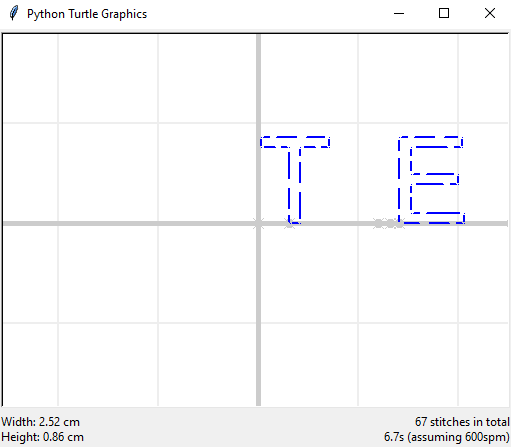
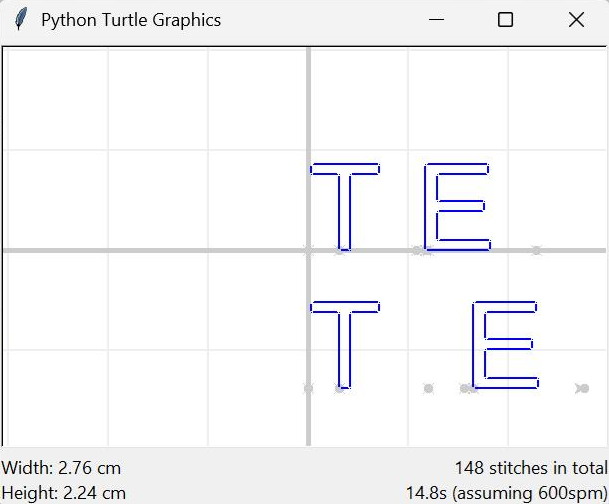
make draw_letter_gap less confusing

diff --git a/src/turtlethread/text.py b/src/turtlethread/text.py
@@ -53,6 +53,8 @@ class LetterDrawer():
                 self.load_font("Comic") # comic sans 
             except: 
                 pass 
+        
+        self.prev_fontsize = None 
 
 
     # context manager functions 
@@ -142,7 +144,7 @@ class LetterDrawer():
         return list(self.loaded_fonts.keys()) 
 
 
-    def draw_one_letter(self, fontname, lettername, fontsize=20, colour='#000000', thickness=1, fill=False, outline=True, fill_min_y_dist:int=10, fill_min_x_dist=10, full_fill=True, outline_satin_thickness=None, turtle=None, flip_y=False): 
+    def draw_one_letter(self, fontname, lettername, fontsize=120, colour='#000000', thickness=1, fill=False, outline=True, fill_min_y_dist:int=10, fill_min_x_dist=10, full_fill=True, outline_satin_thickness=None, turtle=None, flip_y=False): 
         """This function draws a single letter.
 
         Parameters
@@ -173,6 +175,8 @@ class LetterDrawer():
             If ``partial_fill`` is taking too long, consider increasing this value to make it run faster, at the cost of a lower resolution of fill.
             Default value is 10, and this should never be set below 5.
         """
+        self.prev_fontsize = fontsize 
+
         # draws one letter with the turtles, with the specified fields. 
         # turtle defaults to self.turtle 
         if turtle is None: 
@@ -203,7 +207,20 @@ class LetterDrawer():
         
         return 
     
-    def draw_letter_gap(self, fontsize, letter_gap=None): 
+    def draw_letter_gap(self, fontsize=None, letter_gap=None): 
+        '''
+        Draws a gap between two letters. 
+        
+        Parameters 
+        ----------
+        fontsize : int (optional)
+            The font size to take this letter gap to represent. Defaults to the previous font size in draw_one_letter or draw_string. 
+        letter_gap : float (optional) 
+            The letter gap scale factor. defaults to LetterDrawer.letter_gap (which defaults to -0.1) 
+        '''
+        if fontsize is None: 
+            assert ( not (self.prev_fontsize is None) ) , "Cannot draw letter gap before drawing letters!"
+            fontsize = self.prev_fontsize 
         if letter_gap is None: 
             letter_gap = LetterDrawer.letter_gap 
         #print("DRAWING LETTER GAP")
@@ -245,6 +262,7 @@ class LetterDrawer():
             If ``partial_fill`` is taking too long, consider increasing this value to make it run faster, at the cost of a lower resolution of fill.
             Default value is 10, and this should never be set below 5.
         """
+        self.prev_fontsize = fontsize 
         # this draws a multiline string, automatically drawing letter gaps as desired 
         # if fills is True, will fill the text with satin stitch. else, will draw the text outline 
 

diff --git a/docs/source/intermediate/text/eg_load_common_fonts.py b/docs/source/intermediate/text/eg_load_common_fonts.py
@@ -7,14 +7,14 @@ with turtlethread.LetterDrawer(turtle, load_common_fonts=True) as ld:
     
     # Draw "TEXT" with different fonts 
     ld.draw_one_letter('Arial', 'T', 120, fill=False, outline=True) 
-    ld.draw_letter_gap(120) # We must have a letter_gap if we're using ld.draw_one_letter 
+    ld.draw_letter_gap() # We must have a letter_gap if we're using ld.draw_one_letter 
     ld.draw_string('Calibri', 'EX', 120, fills=False, outlines=True) # ld.draw_string handles letter_gaps inside 
-    ld.draw_letter_gap(120) 
+    ld.draw_letter_gap() 
     ld.draw_one_letter('Arial', 'T', 120, fill=False, outline=True) 
     
-    ld.draw_letter_gap(120) 
+    ld.draw_letter_gap() 
     ld.draw_string('Arial', ' ', 120) 
-    ld.draw_letter_gap(120) 
+    ld.draw_letter_gap() 
     
     # fill types 
     ld.draw_string('Arial', "SAM", 120, fills=True, outlines=False, full_fill=True) # full fill - best used without outline 

diff --git a/docs/source/intermediate/text/eg_text_walkthrough.py b/docs/source/intermediate/text/eg_text_walkthrough.py
@@ -8,14 +8,14 @@ with turtlethread.LetterDrawer(turtle) as ld:
     
     # Draw "TEXT" with different fonts 
     ld.draw_one_letter('Arial', 'T', 120, fill=False, outline=True) 
-    ld.draw_letter_gap(120) # We must have a letter_gap if we're using ld.draw_one_letter 
+    ld.draw_letter_gap() # We must have a letter_gap if we're using ld.draw_one_letter 
     ld.draw_string('Calibri', 'EX', 120, fills=False, outlines=True) # ld.draw_string handles letter_gaps inside 
-    ld.draw_letter_gap(120) 
+    ld.draw_letter_gap() 
     ld.draw_one_letter('Arial', 'T', 120, fill=False, outline=True) 
     
-    ld.draw_letter_gap(120) 
+    ld.draw_letter_gap() 
     ld.draw_string('Arial', ' ', 120) 
-    ld.draw_letter_gap(120) 
+    ld.draw_letter_gap() 
     
     # Fill types 
     ld.draw_string('Arial', "SAM", 120, fills=True, outlines=False, full_fill=True) # Full fill - best used without outline 

diff --git a/docs/source/intermediate/text/eg_letter_gap.py b/docs/source/intermediate/text/eg_letter_gap.py
@@ -1,10 +1,22 @@
-import turtlethread 
-
-turtle = turtlethread.Turtle() 
 with turtlethread.LetterDrawer(turtle) as ld: 
     ld.load_font('Arial') 
-    turtlethread.LetterDrawer.letter_gap = 0.1 
+
+    # with default letter gap scale factor -0.1 
+    ld.draw_one_letter('Arial', 'T', 120) 
+    ld.draw_letter_gap() 
+    ld.draw_one_letter('Arial', 'E', 120) 
+
+    # equivalent of carriage return in typewriters 
+    with turtle.jump_stitch(): 
+        turtle.goto(0, 0)
+    ld.draw_string('Arial', '\n', 120)
+
+
+    # set default letter gap scale factor to 0.3 
+    turtlethread.LetterDrawer.letter_gap = 0.3 
     
     ld.draw_one_letter('Arial', 'T', 120) 
-    ld.draw_letter_gap(120) 
+    ld.draw_letter_gap() 
     ld.draw_one_letter('Arial', 'E', 120) 
+
+turtle.visualise() 

diff --git a/docs/source/intermediate/text/eg_text_fill.py b/docs/source/intermediate/text/eg_text_fill.py
@@ -5,7 +5,7 @@ with turtlethread.LetterDrawer(turtle) as ld:
     ld.load_font('Arial') 
     
     ld.draw_one_letter('Arial', 'B', 120, outline=True, fill=False) # No fill 
-    ld.draw_letter_gap(120) 
+    ld.draw_letter_gap() 
     ld.draw_one_letter('Arial', 'y', 120, outline=True, fill=True, full_fill=False) # Partial fill 
-    ld.draw_letter_gap(120) 
+    ld.draw_letter_gap() 
     ld.draw_one_letter('Arial', 'e', 120, outline=False, fill=True, full_fill=True) # Full fill 

diff --git a/docs/source/intermediate/text/eg_text.py b/docs/source/intermediate/text/eg_text.py
@@ -8,7 +8,7 @@ with turtlethread.LetterDrawer(turtle) as ld:
     ld.load_font('Calibri') 
     
     ld.draw_one_letter('Arial', 'T', 120) 
-    ld.draw_letter_gap(120) 
+    ld.draw_letter_gap() 
     ld.draw_string('Calibri', 'EX', 120) 
-    ld.draw_letter_gap(120) 
+    ld.draw_letter_gap() 
     ld.draw_one_letter('Arial', 'T', 120) 

diff --git a/docs/source/intermediate/text/eg_draw_string.py b/docs/source/intermediate/text/eg_draw_string.py
@@ -6,7 +6,7 @@ with turtlethread.LetterDrawer(turtle) as ld:
     ld.load_font('Calibri')
     
     ld.draw_one_letter('Arial', 'T', 120) 
-    ld.draw_letter_gap(120) 
+    ld.draw_letter_gap() 
     ld.draw_string('Calibri', 'EX', 120) 
-    ld.draw_letter_gap(120) 
+    ld.draw_letter_gap() 
     ld.draw_one_letter('Arial', 'T', 120) 

diff --git a/docs/source/intermediate/text.rst b/docs/source/intermediate/text.rst
@@ -80,12 +80,12 @@ Note that if your letter gap is too small or large, you can adjust the ratio by 
  
 .. literalinclude:: text/eg_letter_gap.py
     :language: python
-    :emphasize-lines: 6
+    :emphasize-lines: 16
     :linenos:
 
 .. image:: ../../_static/figures/text/draw_letter_gap_01.png 
 
-The default letter gap is ``0.03``. 
+The default letter gap scale factor is ``-0.1``. 
 
 Drawing Strings (``ld.draw_string``)
 ------------------------------------
